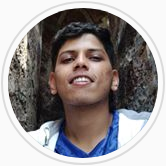
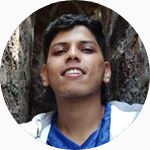
Add member and event data (#6)
* Add new faces

* Add member data

* Add event images

* Add more event and member data

diff --git a/_includes/modals.html b/_includes/modals.html
@@ -19,21 +19,9 @@
                                 <p>{{ post.description }}</p>
                             {% endif %}
                             <ul class="list-inline item-details">
-                                {% if post.client %}
-                                    <li>Client:
-                                        <strong><a href="http://startbootstrap.com">{{ post.client }}</a>
-                                        </strong>
-                                    </li>
-                                {% endif %}
-                                {% if post.project-date %}
+                                {% if post.date %}
                                     <li>Date:
-                                        <strong><a href="http://startbootstrap.com">{{ post.project-date }}</a>
-                                        </strong>
-                                    </li>
-                                {% endif %}
-                                {% if post.category %}
-                                    <li>Service:
-                                        <strong><a href="http://startbootstrap.com">{{ post.category }}</a>
+                                        <strong><a href="http://startbootstrap.com">{{ post.date }}</a>
                                         </strong>
                                     </li>
                                 {% endif %}

diff --git a/_includes/css/main.css b/_includes/css/main.css
@@ -225,6 +225,8 @@ div.clear {
 .member-profile-pic{
     display: block;
     margin: auto;
+    max-width: 150px;
+    border-radius: 100%;
 }
 .portfolio .portfolio-item .portfolio-link .caption:hover {
     opacity: 1;
@@ -505,12 +507,13 @@ footer .footer-below {
 }
 
 /* ## SECTION FULL SCREEN */
-.welcome-banner, .about-us, .portfolio{
+.welcome-banner, .about-us {
     height: 100vh;
 }
 @media (max-width:639px){
-    .portfolio{
+    .portfolio {
         height:auto
+    }
 }
 .portfolio{
     padding: 0;
